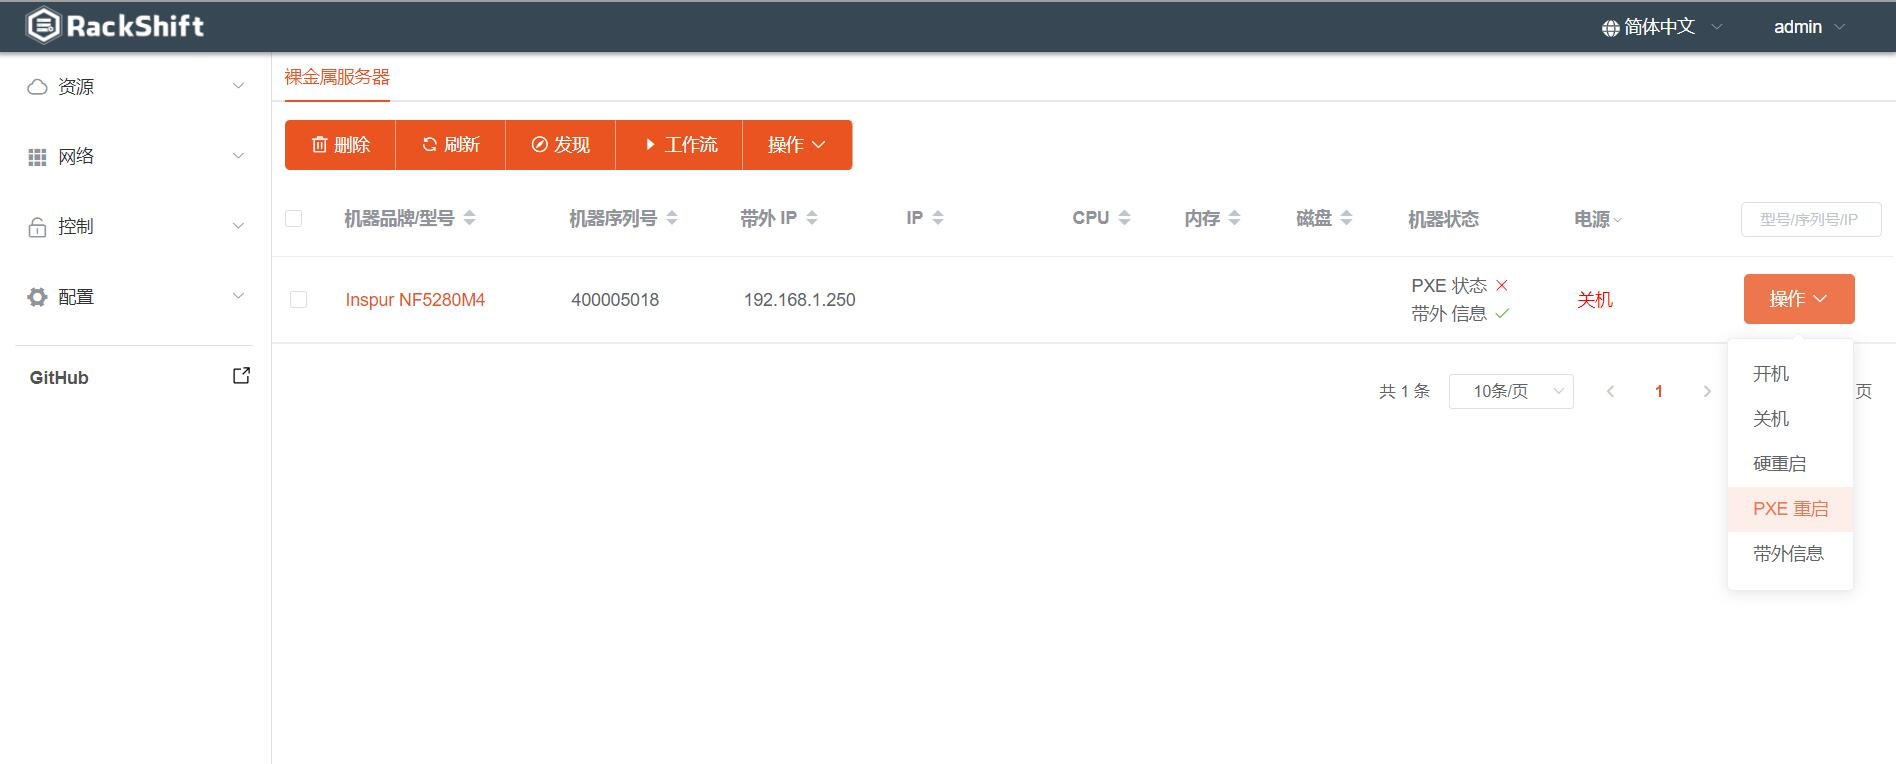
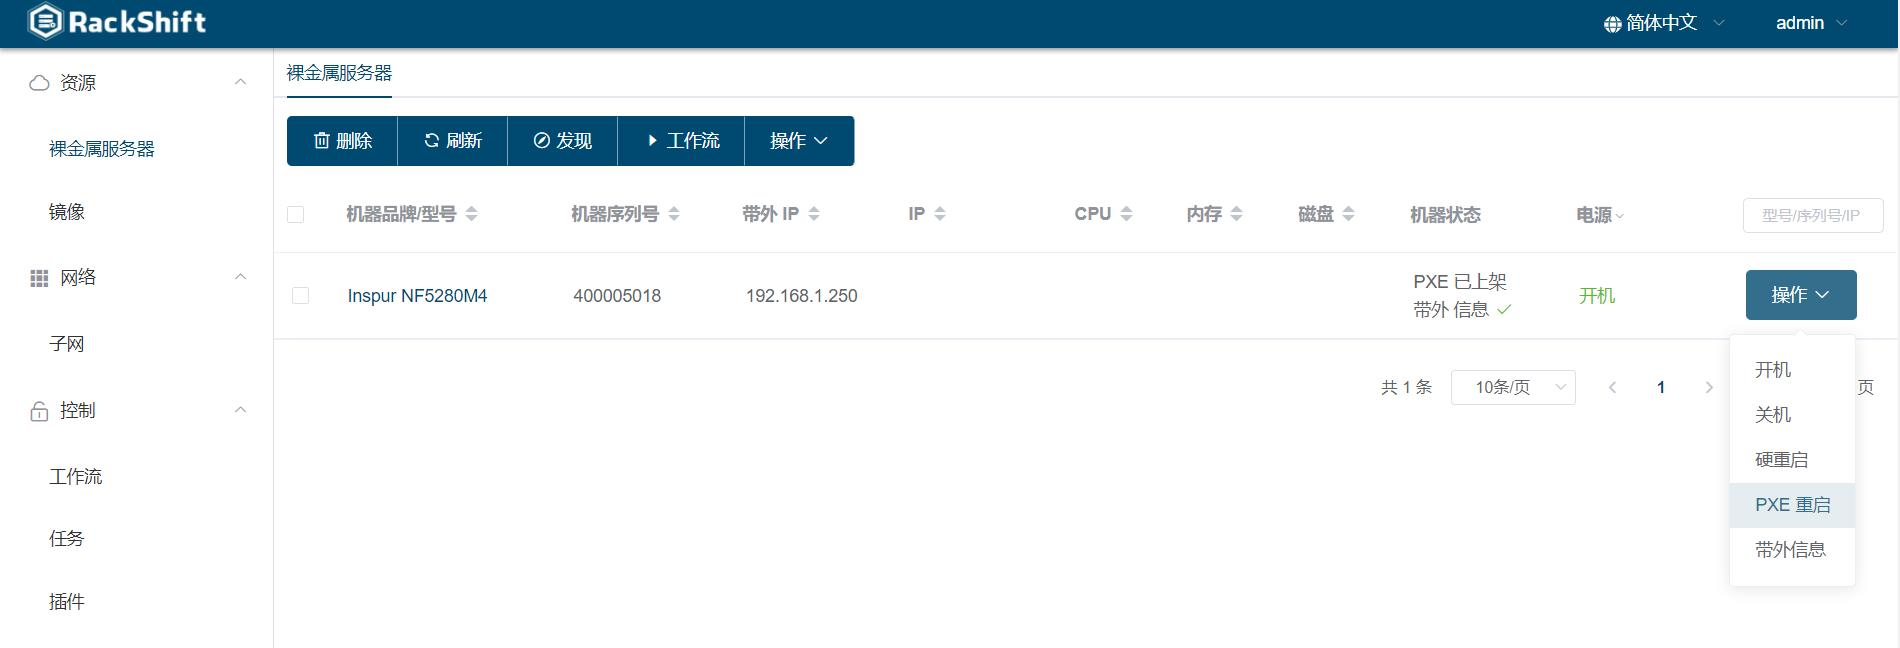
docs:更新主题色图片

diff --git a/docs/plugin.md b/docs/plugin.md
@@ -10,7 +10,6 @@
    ![runnob](./static/wizard/add_cmd.jpg)
    
 *  点击“执行”按钮
-   ![runnob](./static/wizard/run_cmd.jpg)
    添加 ipmitool 对应的命令，这里类似于管理员手动批量给物理机执行 ipmitool 的命令，如果有多条命令可以换行
    
 *  选择配置好了带外信息的物理机，点击“执行按钮”

diff --git a/docs/index.md b/docs/index.md
@@ -54,7 +54,7 @@
 
 ## 界面展示
 * 物理机
-![runnob](static/wizard/pm1.jpg)
+![runnob](static/wizard/main.jpg)
 * RAID
 ![runnob](static/wizard/raid.jpg)
 * 装机
